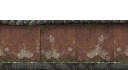
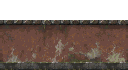
codex CM-WALL3: sua 6 loi tuong vien (commit boi Opus, sandbox chan index)

diff --git a/tools/sprites/CM-WALL/walls.py b/tools/sprites/CM-WALL/walls.py
@@ -1,4 +1,4 @@
-"""CM-WALL2. Source-cell assembly; no synthetic texture or random pixels."""
+"""CM-WALL3. Source-cell assembly; no synthetic texture or random pixels."""
 from pathlib import Path
 import copy, hashlib, io, json, subprocess, sys
 import numpy as np
@@ -6,7 +6,7 @@ from PIL import Image, ImageDraw
 
 def install(g):
     root, out, ref = g['ROOT'],g['OUT'],g['REF']
-    rec=root/'records/CM-WALL2'
+    rec=root/'records/CM-WALL3'
     gate_build,gate_manifest=g['build'],g['manifest']
     quantize=g['quantize']; pal=g['PAL']
     old=json.loads((root/'public/assets/kits/C-B3/kit.json').read_text(encoding='utf-8'))
@@ -33,10 +33,10 @@ def install(g):
         # Unbend the actual gate roof along its ridge, retaining round tile ends.
         roof=np.empty((20,76,3),np.uint8)
         for x in range(76):
-            sx=185+x*240/76; dx=sx-307
-            ridge=290+0.00078*dx*dx
-            eave=365+0.00155*dx*dx
-            roof[:,x]=cell(src,(sx,ridge,sx+240/76,eave),(1,20))[:,0]
+            sx=185+x*195/76; dx=sx-307
+            ridge=286+0.0025*dx*dx
+            eave=359+0.0022*dx*dx
+            roof[:,x]=cell(src,(sx,ridge,sx+195/76,eave),(1,20))[:,0]
         # Calibrate materials to the same quantized V1 medians as the gate.
         gate=np.array(gate_build()[1])
         sample=gate[40:120,34:158]
@@ -46,36 +46,66 @@ def install(g):
         for a,target in materials:
             med=np.median(a.reshape(-1,3),axis=0)
             a[:]=quantize(np.clip(a.reshape(-1,3).astype(float)*np.array(target)/med,0,255)).reshape(a.shape)
+        # Distinct source windows: tall flaking, shallow wear, and almost intact
+        # plaster. Do not roll a 33px donor: that formerly made shell rhythms.
+        patches=[('V1-original.png',(0,619,105,733)),
+                 ('V1-original.png',(516,620,614,730)),
+                 ('V1-original-gate.png',(3,622,107,710)),
+                 ('V1-original.png',(518,623,611,689)),
+                 ('V1-original-gate.png',(22,626,108,734)),
+                 ('V1-original.png',(0,622,82,718)),
+                 ('V1-original-gate.png',(517,621,604,733)),
+                 ('V1-original.png',(6,620,101,696)),
+                 ('V1-original.png',(525,618,615,724)),
+                 ('V1-original-gate.png',(1,622,91,725)),
+                 ('V1-original.png',(28,625,108,732)),
+                 ('V1-original-gate.png',(534,623,616,700))]
+        donors=[]
+        for i,(file,box) in enumerate(patches):
+            raw=cell(np.array(Image.open(ref/file).convert('RGB')),box,(40,37))
+            # Match intact RED pixels only, never normalize by the amount of white
+            # exposed plaster (which formerly darkened entire patch columns).
+            red=(raw[:,:,0]>raw[:,:,1]*1.35)
+            med=np.median(raw[red],axis=0)
+            raw=quantize(np.clip(raw.reshape(-1,3).astype(float)*plaster_target/med,0,255)).reshape(raw.shape)
+            if i%3==1: raw=raw[:,::-1].copy()
+            donors.append(raw)
+        # A single straight ridge from the concept, removing moss/tree/cap intrusions.
+        # The complete roof slope is still the unbent original tile surface above.
+        for y in range(6):
+            row=roof[y].astype(float);lum=row.mean(axis=1)
+            target=np.maximum(lum,108) if y<2 else np.minimum(lum,90)
+            roof[y]=quantize(np.clip(row*target[:,None]/np.maximum(lum[:,None],1),0,255))
         def horizontal(w,variant):
-            a=np.zeros((70,w,4),np.uint8); a[:,:,3]=255
-            pos=0; i=variant
-            # Source-window quilting with a minimum-error cut through 8px overlap.
-            # A seam follows low-contrast plaster, not a straight repeated stripe.
+            a=np.zeros((70,w,4),np.uint8);a[:,:,3]=255
+            face=np.empty((37,w,3),np.uint8)
+            start={1:0,2:2,3:6,4:9,5:10}.get(variant,0)
+            # Overlap blend conceals a cut without a dark straight vertical stripe.
+            pos=0;idx=start
             while pos<w:
-                donor=(left if i%2==0 else right).copy()
-                if (i//2)%2: donor=donor[:,::-1]
-                donor=np.roll(donor,(i*11+variant*7)%donor.shape[1],axis=1)
-                n=min(donor.shape[1],w-pos); patch=np.zeros((70,n,3),np.uint8)
-                patch[25:62]=donor[:,:n]
-                for x in range(n):
-                    rx=(x+i*13+variant*17)%76
-                    patch[:20,x]=roof[:,rx];patch[20:25,x]=roof[15:20,rx]
-                    patch[62:,x]=plinth[:,(x+i*9)%34]
-                if pos==0:
-                    a[:,:n,:3]=patch;pos=n-8
-                else:
-                    ov=min(8,n); error=((a[:,pos:pos+ov,:3].astype(float)-patch[:,:ov])**2).sum(axis=2)
-                    cost=error.copy(); prev=np.zeros((70,ov),int)
-                    for y in range(1,70):
-                        for x in range(ov):
-                            lo=max(0,x-1);hi=min(ov,x+2); q=lo+cost[y-1,lo:hi].argmin()
-                            cost[y,x]+=cost[y-1,q];prev[y,x]=q
-                    cut=np.zeros(70,int);cut[-1]=cost[-1].argmin()
-                    for y in range(68,-1,-1):cut[y]=prev[y+1,cut[y+1]]
-                    for y in range(70): a[y,pos+cut[y]:pos+n,:3]=patch[y,cut[y]:]
-                    pos+=max(1,n-8)
-                if pos+8>=w:break
-                i+=1
+                donor=donors[idx%len(donors)];n=min(40,w-pos)
+                if pos:
+                    overlap=min(8,n)
+                    for x in range(overlap):
+                        t=(x+1)/(overlap+1)
+                        face[:,pos+x]=quantize(face[:,pos+x]*(1-t)+donor[:,x]*t)
+                    face[:,pos+overlap:pos+n]=donor[:,overlap:n]
+                else:face[:,:n]=donor[:,:n]
+                if pos+n==w:break
+                pos+=32;idx+=1
+            # Remove only long column shadows caused by the cut, preserving flecks.
+            for unused in range(2):
+                lum=face[:23].mean(axis=(0,2))
+                for x in range(2,w-2):
+                    neighbor=(lum[x-2:x].mean()+lum[x+1:x+3].mean())/2
+                    if neighbor-lum[x]>4:
+                        face[:,x]=quantize(np.clip(face[:,x].astype(float)+(neighbor-lum[x]-2),0,255))
+            a[25:62,:,:3]=face
+            # Continuous tile run; no independent roof quilt with an offset ridge.
+            for x in range(w):
+                rx=(x+variant*17)%76
+                a[:20,x,:3]=roof[:,rx];a[20:25,x,:3]=roof[15:20,rx]
+                a[62:,x,:3]=plinth[:,(x+variant*7)%34]
             return a
         hs={n:horizontal(32*n,n//2) for n in (2,4,6)}
         # Controlled fill at modular boundaries, using the same source column.
@@ -87,28 +117,47 @@ def install(g):
                     a[:,x,:3]=quantize(a[:,x,:3]*(1-t)+seam[:,:3]*t)
         wholes={f'cwall_h_{n}':Image.fromarray(a) for n,a in hs.items()}
         # Narrow post (20/16=1.25), its cap is a cut portion of the same eave.
-        post=hs[4][:,48:68].copy()
+        post=horizontal(20,5)
         post[:20]=hs[2][:20,19:39]
         wholes['cwall_post']=Image.fromarray(post)
-        # Turn source tiles along north/south: a 14px roof plus 6px red side.
-        v=np.zeros((32,20,4),np.uint8); v[:,:,3]=255
-        for y in range(32):
-            v[y,:14,:3]=roof[np.linspace(0,19,14).astype(int),(y+21)%76]
-            v[y,14:,:3]=right[(y+3)%37,10:16]
-        # Roundtrip source rows at the wrap; no horizontal cap every 32 pixels.
-        v[-1]=v[0]
+        # Real N/S wall roof from V1: two slopes and a bright axial ridge.
+        # 18px roof + 10px plaster; 28px canvas overhangs the 16px footprint.
+        vr=cell(src,(638,6,695,270),(18,84))
+        med=np.median(vr.reshape(-1,3),axis=0)
+        vr=quantize(np.clip(vr.reshape(-1,3).astype(float)*(74,72,63)/med,0,255)).reshape(vr.shape)
+        v=np.zeros((32,28,4),np.uint8);v[:,:,3]=255
+        v[:,:18,:3]=vr[13:45]
+        v[:,18:,:3]=donors[7][2:34,10:20]
+        # Fix the ONLY modular wrap; preserve all internal roof tile courses.
+        for j in range(3):
+            t=(3-j)/3
+            for y in (j,31-j):
+                v[y,:,:3]=quantize(v[y,:,:3]*(1-t)+v[0,:,:3]*t)
         wholes['cwall_v']=Image.fromarray(v)
-        gatev=np.zeros((80,24,4),np.uint8)
-        gatev[:16,:20]=np.tile(v,(1,1,1))[:16]
-        gatev[64:,:20]=v[16:]
-        # Face at exposed ends, cut from the red plaster itself.
-        gatev[13:16,3:18,:3]=right[21:24,8:23]; gatev[13:16,3:18,3]=255
-        gatev[64:67,3:18,:3]=left[18:21,8:23]; gatev[64:67,3:18,3]=255
+        gatev=np.zeros((80,28,4),np.uint8)
+        gatev[:16]=v[:16];gatev[64:]=v[16:]
+        # Actual decorated gable termination, not another horizontal tile rung.
+        gable=cell(src,(638,274,696,314),(18,12))
+        med=np.median(gable.reshape(-1,3),axis=0)
+        gable=quantize(np.clip(gable.reshape(-1,3).astype(float)*(78,74,64)/med,0,255)).reshape(gable.shape)
+        gatev[4:16,:18,:3]=gable
+        gatev[64:76,:18,:3]=gable[::-1]
+        # Clearly outlined red end faces; all colors sampled from the source.
+        for y0 in (12,64):
+            gatev[y0:y0+4,18:,:3]=donors[3][10:14,12:22]
+            gatev[y0:y0+4,18,:3]=plinth[2,6]
+            gatev[y0:y0+4,27,:3]=plinth[5,12]
         wholes['gate_v']=Image.fromarray(gatev)
-        corner=hs[2][:,:40].copy()
-        for y in range(54): corner[y,:20]=v[y%32]
+        corner=horizontal(40,4)
+        # Overlapping elbow: vertical surface continues into the horizontal eave.
+        # Keep the lower horizontal plaster, so neither branch ends in a gap.
+        corner[:54,:28]=np.tile(v,(2,1,1))[:54]
+        corner[:20,18:]=hs[2][:20,18:40]
         wholes['corner_hv_L']=Image.fromarray(corner)
-        wholes['corner_hv_R']=Image.fromarray(corner[:,::-1].copy())
+        rightcorner=horizontal(40,5)
+        rightcorner[:54,12:]=np.tile(v[:,::-1],(2,1,1))[:54]
+        rightcorner[:20,:22]=hs[2][:20,:22]
+        wholes['corner_hv_R']=Image.fromarray(rightcorner)
         # ONLY permitted 34x70 end rectangles change. Every other layer byte stays.
         gateims,_,repair=gate_build()
         for name,im in list(gateims.items()):
@@ -123,10 +172,10 @@ def install(g):
         wholes['moongate_h']=Image.alpha_composite(gateims['moongate_h.png'],gateims['moongate_h_roof.png'])
         for name in names:
             a=np.array(wholes[name]); yy,xx=np.indices(a.shape[:2])
-            if name=='cwall_v': mask=xx<14
-            elif name=='gate_v': mask=(xx<14)&((yy<13)|(yy>=67))
+            if name=='cwall_v': mask=xx<18
+            elif name=='gate_v': mask=xx<18
             elif name.startswith('corner'):
-                side=(xx<14) if name.endswith('L') else (xx>=26)
+                side=(xx<18) if name.endswith('L') else (xx>=22)
                 mask=(yy<20)|(side&(yy<54))
             else: mask=yy<20
             b=a.copy(); r=a.copy(); b[mask]=0; r[~mask]=0
@@ -139,7 +188,7 @@ def install(g):
         for name in names:
             for key in [name,name+'_roof']:
                 p=copy.deepcopy(old['pieces'][key]); p['source']={'file':'.agents/refs/CM/V1-original.png','crops':crops,
-                   'method':'median source cells; gate ridge unbending; material calibration to V1; exact palette; controlled boundary fill; 14px rotated tile roof for verticals'}
+                   'method':'CM-WALL3: 12 distinct original/gate source windows with overlap; intact-red median calibration; straight source ridge; actual vertical two-slope roof crop [638,6,695,270]; 18px roof + 10px red side; 28px canvas, footprint/anchor unchanged; source gable [638,274,696,314]'}
                 kit['pieces'][key]=p
         return kit
     def verify(ims,wholes):
@@ -147,7 +196,8 @@ def install(g):
         for name,whole in wholes.items():
             b=np.array(Image.open(out/(name+'.png')).convert('RGBA')); r=np.array(Image.open(out/(name+'_roof.png')).convert('RGBA'))
             assert b.shape==r.shape
-            assert Image.open(out/(name+'.png')).size==Image.open(root/f'public/assets/kits/C-B3/{name}.png').size,(name,'size')
+            expected_size={'cwall_v':(28,32),'gate_v':(28,80)}.get(name,Image.open(root/f'public/assets/kits/C-B3/{name}.png').size)
+            assert Image.open(out/(name+'.png')).size==expected_size,(name,'size')
             for k in (name,name+'_roof'):
                 for field in ['anchor','footprint','collide','pair','layer']:
                     assert kit['pieces'][k].get(field)==old['pieces'][k].get(field),(k,field)
@@ -184,7 +234,9 @@ def install(g):
         for p in expected['pieces']: p['k']=p['k'].replace('C-B3/','CM-WALL/')
         assert area==expected,'area modifications must only replace kit references'
         assert 'C-B3' not in json.dumps(area)
-        print(f'PASS CM-WALL2 verify: {len(ims)} PNGs, dimensions/anchor/footprint/collide/pair=C-B3, alpha=0/255, palette={len(colors)}/{len(pal)}, base+roof=exact')
+        from quality import verify_quality
+        verify_quality(wholes,rec)
+        print(f'PASS CM-WALL3 verify: {len(ims)} PNGs, dimensions=baseline except vertical canvas 28px; anchor/footprint/collide/pair=C-B3, alpha=0/255, palette={len(colors)}/{len(pal)}, base+roof=exact')
         print(f'PASS joins: horizontal+moongate mean RGB delta max={max(diffs):.3f}, roof y=0; unique horizontal blocks={len(set(blocks))}/{len(blocks)}; vertical 3-stack seam={vd:.3f}; post=1.25x; gate opening=48px; C-B3 refs=0; coordinates unchanged')
     def sheet(wholes):
         board=Image.new('RGB',(1440,2200),(42,46,42)); d=ImageDraw.Draw(board)
@@ -202,11 +254,17 @@ def install(g):
         board.paste(Image.open(ref/'V1.png').resize((960,540),Image.Resampling.NEAREST),(10,30))
         if (rec/'after-v1.png').exists(): board.paste(Image.open(rec/'after-v1.png').resize((960,540),Image.Resampling.NEAREST),(990,30))
         for i,label in enumerate(('west','east')):
-            x=10+i*980; d.text((x,585),label+' BEFORE 3af2339 | AFTER',fill='white')
+            x=10+i*980; d.text((x,585),label+' BEFORE ace6f0c | AFTER',fill='white')
             for j,when in enumerate(('before','after')):
                 p=rec/f'{when}-{label}.png'
                 if p.exists():board.paste(Image.open(p).convert('RGB'),(x+j*490,610))
-        d.text((10,890),'ALL NEW PIECES - 4x nearest - #2a2e2a',fill='white');board.paste(sh,(10,915));board.save(rec/'compare.png')
+        d.text((10,890),'ALL NEW PIECES - 4x nearest - #2a2e2a',fill='white');board.paste(sh,(10,915));
+        y=board.height+20
+        extra=Image.new('RGB',(max(2320,board.width),y+850),(42,46,42));extra.paste(board,(0,0));d=ImageDraw.Draw(extra)
+        d.text((10,y),'REPEAT AUDIT: cwall_h_6 x3 adjacent / cwall_v x4 stacked - 4x nearest',fill='white')
+        h=np.array(wholes['cwall_h_6']);strip=Image.fromarray(np.tile(h,(1,3,1)));strip=strip.resize((strip.width*4,strip.height*4),Image.Resampling.NEAREST);extra.paste(strip,(8,y+24),strip)
+        v=np.array(wholes['cwall_v']);stack=Image.fromarray(np.tile(v,(4,1,1)));stack=stack.resize((stack.width*4,stack.height*4),Image.Resampling.NEAREST);extra.paste(stack,(8,y+24+strip.height+12),stack)
+        extra=extra.crop((0,0,extra.width,y+24+strip.height+12+stack.height+12));extra.save(rec/'compare.png')
     def main():
         out.mkdir(parents=True,exist_ok=True);rec.mkdir(parents=True,exist_ok=True)
         ims,wholes,repair=build()

diff --git a/tools/sprites/CM-WALL/quality.py b/tools/sprites/CM-WALL/quality.py
@@ -1,0 +1,47 @@
+"""CM-WALL3 additional visual regression measurements (source-derived pixels)."""
+import json
+from itertools import combinations
+import numpy as np
+from PIL import Image
+
+def verify_quality(wholes,rec):
+    masks=[]; contrasts={}; ridges={}; edges={}
+    def wear(a):
+        rgb=a[:,:,:3].astype(float)
+        return (rgb[:,:,0]-rgb[:,:,1]<16)&(rgb[:,:,1]>65)&(a[:,:,3]>0)
+    for n in (2,4,6):
+        name=f'cwall_h_{n}';a=np.array(wholes[name]);band=a[35:62]
+        for x in range(0,a.shape[1],32):
+            masks.append((f'{name}@{x}',wear(band[:,x:x+32])))
+        # Compare full-height RED field (exclude roof shadow and actual erosion).
+        lum=a[28:45,:,:3].astype(float).mean(axis=(0,2));d=[]
+        for x in range(2,len(lum)-2):
+            left=lum[x-2:x].mean();right=lum[x+1:x+3].mean()
+            d.append(min(left,right)-lum[x])
+        contrasts[name]=float(max(d))
+        # Visual ridge registration, not just an opaque rectangular silhouette.
+        top=(a[:,:,3]>0).argmax(axis=0);edges[name]=int(top.max()-top.min())
+        luminance=a[:6,:,:3].mean(axis=2)
+        ridge=luminance.argmax(axis=0);ridges[name]=int(ridge.max()-ridge.min())
+    for name,x0,x1 in [('cwall_post',0,20),('corner_hv_L',28,40),('corner_hv_R',0,12)]:
+        a=np.array(wholes[name])[35:62,x0:x1]
+        # Normalize horizontal extent only, retaining every vertical erosion level.
+        ids=np.floor(np.arange(32)*a.shape[1]/32).astype(int)
+        masks.append((name,wear(a[:,ids])))
+    pairs=[]
+    for (an,a),(bn,b) in combinations(masks,2):
+        union=(a|b).sum();score=float((a&b).sum()/union) if union else 1.
+        pairs.append((score,an,bn))
+    pairs.sort(reverse=True)
+    report={'wear_metric':'intersection / union of exposed-plaster masks, 12 distinct 32px face windows + post + both exposed corner faces; rows35:62; R-G<16 and G>65',
+        'wear_max_iou':pairs[0][0],'wear_worst_pair':pairs[0][1:],
+        'wear_counts':{name:int(m.sum()) for name,m in masks},
+        'red_column_threshold_rgb':8,'red_column_metric':'mean RGB on rows28:45; column lower than BOTH adjacent 2-column means',
+        'red_column_max':contrasts,'roof_ridge_y_range':ridges,'roof_silhouette_y_range':edges}
+    (rec/'quality.json').write_text(json.dumps(report,indent=2)+'\n',encoding='utf-8')
+    print('QUALITY',json.dumps(report))
+    assert pairs[0][0]<=.70,('repeated erosion mask',pairs[:3])
+    assert max(contrasts.values())<=8,('vertical dark stripe',contrasts)
+    assert max(edges.values())<=1,('roof silhouette bump',edges)
+    assert max(ridges.values())<=1,('ridge bump',ridges)
+    print(f'PASS CM-WALL3 quality: erosion mask max IoU={pairs[0][0]:.3f} <=0.70 ({len(pairs)} pairs); dark column max={max(contrasts.values()):.3f} <=8 RGB; roof ridge y range={max(ridges.values())} <=1px')
